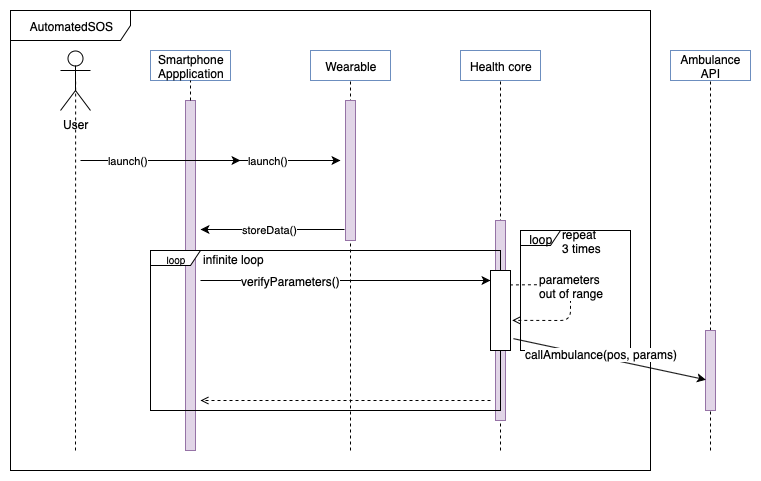
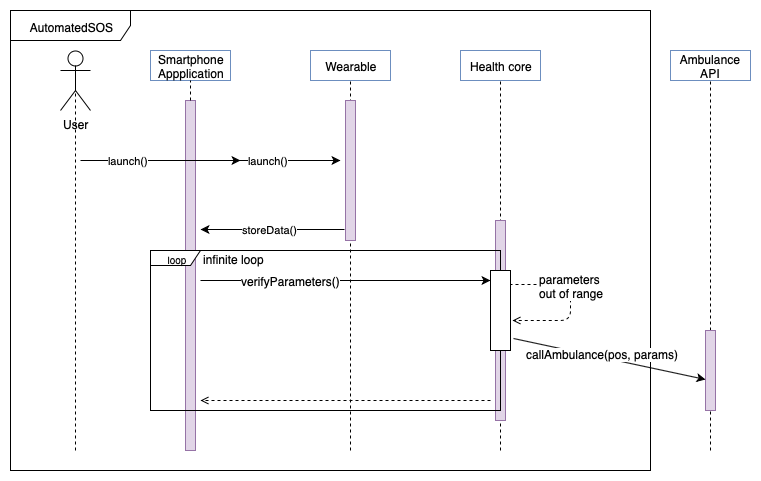
Fixed errors in sequence diagram

diff --git a/RASD/RASD.tex b/RASD/RASD.tex
@@ -667,7 +667,7 @@ Exceptions       & \begin{tabular}[c]{@{}l@{}}1. Network error during the enrolm
 \newpage
 
 \begin{figure}[h!]
-  \includegraphics[width=\textwidth]{Figures/Sequence-AtomatedSOS}
+  \includegraphics[width=\textwidth]{Figures/Sequence-Automated-SOS}
   \caption{"AutomatedSOS" sequence diagram}
 \end{figure}
 \newpage
